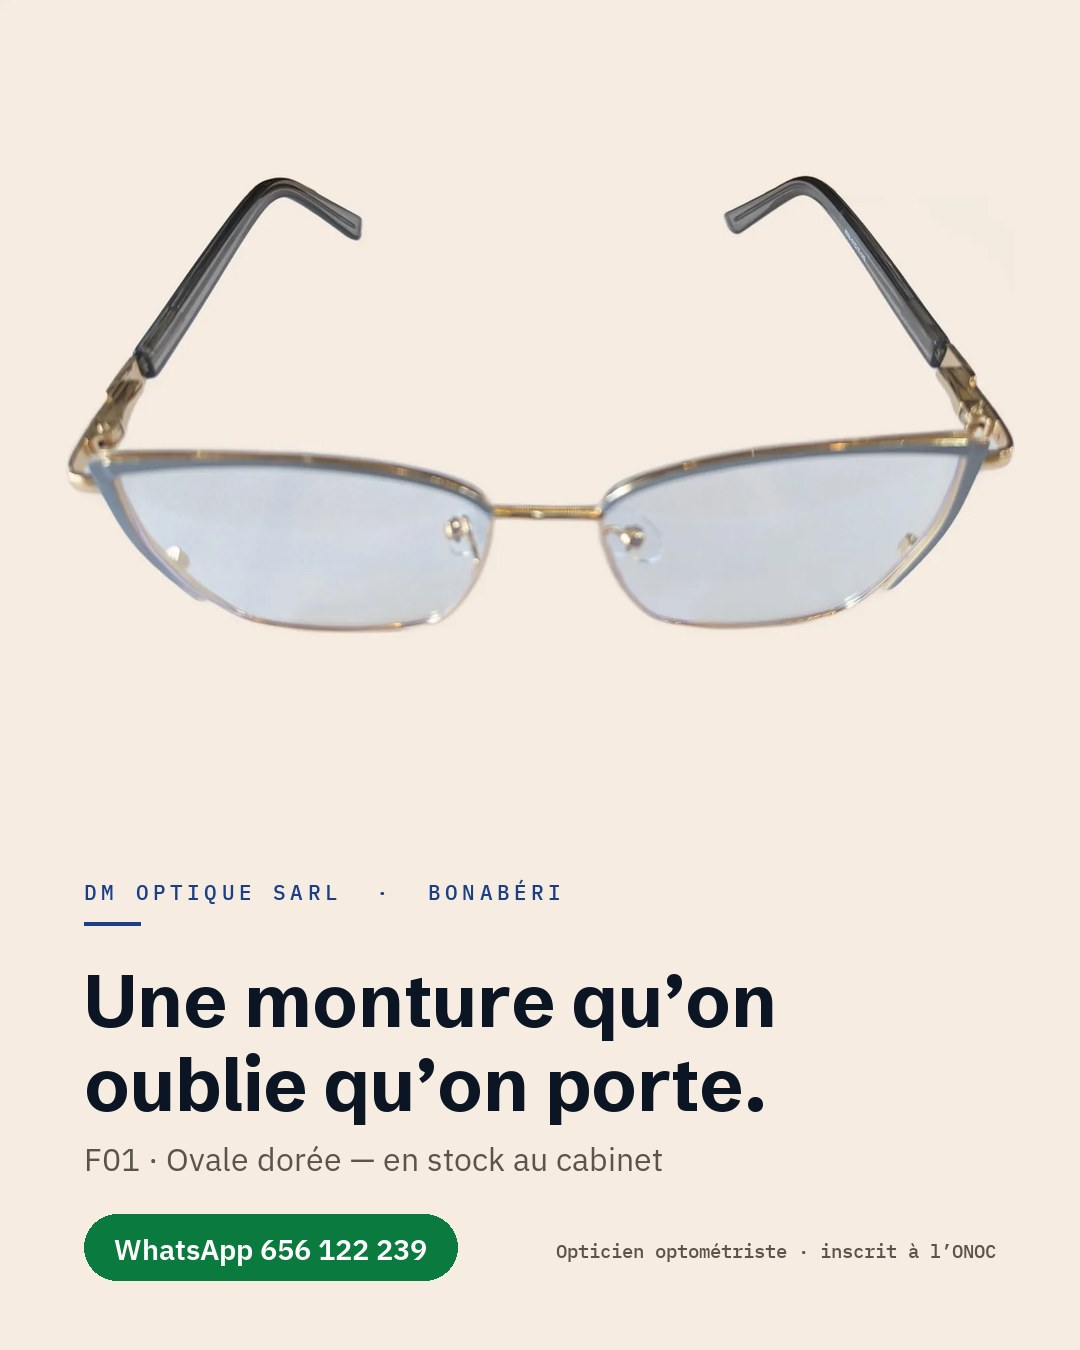
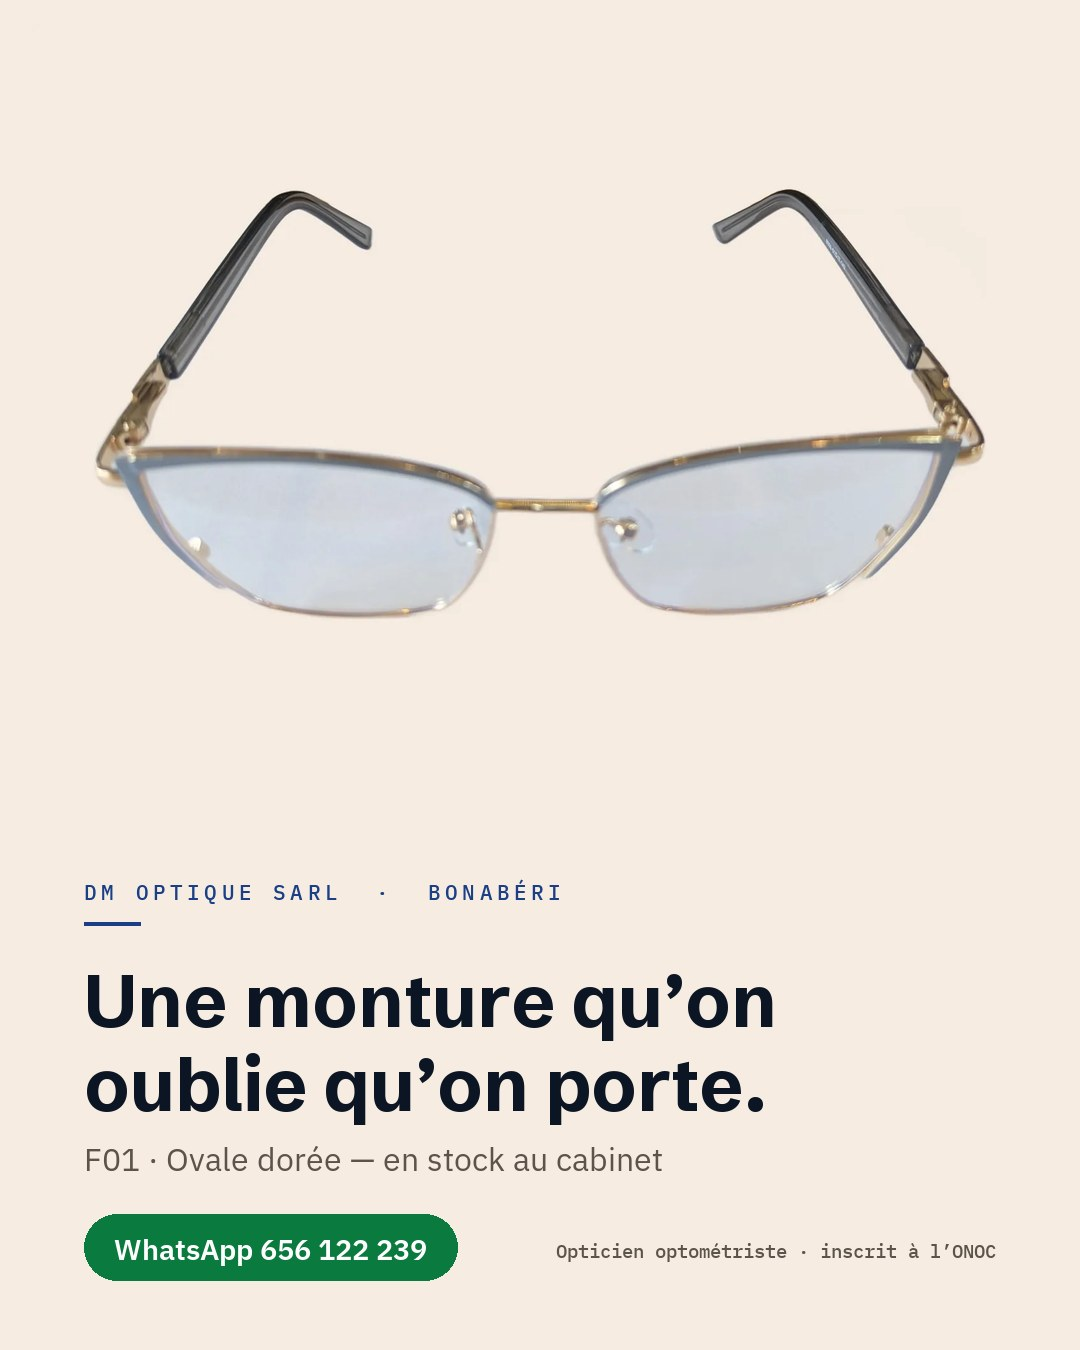
DM Optique: cartes sociales recadrees (marge 6%), liens des fiches montures dans le post

Changed region(s): [[0.0611, 0.1244, 0.9472, 0.4667], [0.3056, 0.1556, 0.3667, 0.1867]]

diff --git a/clients/dm-optic/launch/social/build_frame_cards.py b/clients/dm-optic/launch/social/build_frame_cards.py
@@ -103,8 +103,12 @@ def build(card, frames):
     im = Image.open(src).convert("RGB")
 
     canvas = Image.new("RGB", (W, H), CREAM)
-    # bande photo : la photo garde ses proportions (4:3) et son propre fond crème
-    canvas.paste(im.resize((W, BAND), Image.LANCZOS), (0, 0))
+    # bande photo : la photo garde ses proportions (4:3) et son propre fond crème.
+    # On la réduit de 6 % et on la centre : le fond de prise de vue (246,236,225) est
+    # identique à CREAM, donc la marge est invisible — et aucune branche ne touche le bord.
+    scale = 0.94
+    pw, ph = int(W * scale), int(BAND * scale)
+    canvas.paste(im.resize((pw, ph), Image.LANCZOS), ((W - pw) // 2, (BAND - ph) // 2))
     d = ImageDraw.Draw(canvas)
 
     kicker = ImageFont.truetype(ttf("ibm-plex-mono-latin-500-normal.ttf"), 21)

diff --git a/clients/dm-optic/content/month1/w1/facebook-post-famille.md b/clients/dm-optic/content/month1/w1/facebook-post-famille.md
@@ -23,6 +23,12 @@ photo ne montre.
 **Relance :** `python3 clients/dm-optic/launch/social/build_frame_cards.py` (script versionné,
 polices du site, contrôle automatique de largeur des titres).
 
+**Fiches en ligne (vérifiées le 21/10 sur le domaine) :**
+
+- F01 → `https://dmoptiquesarl.com/montures/femmes/f01-ovale-doree/`
+- H08 → `https://dmoptiquesarl.com/montures/hommes/h08-double-pont-aviateur-noir-et-dore/`
+- E16 → `https://dmoptiquesarl.com/montures/enfants/e16-carree-bleue/`
+
 **Ordre d'envoi :** 1 → 2 → 3. Chaque carte porte le même gabarit, donc le carrousel se lit comme une
 série, pas comme trois images.
 
